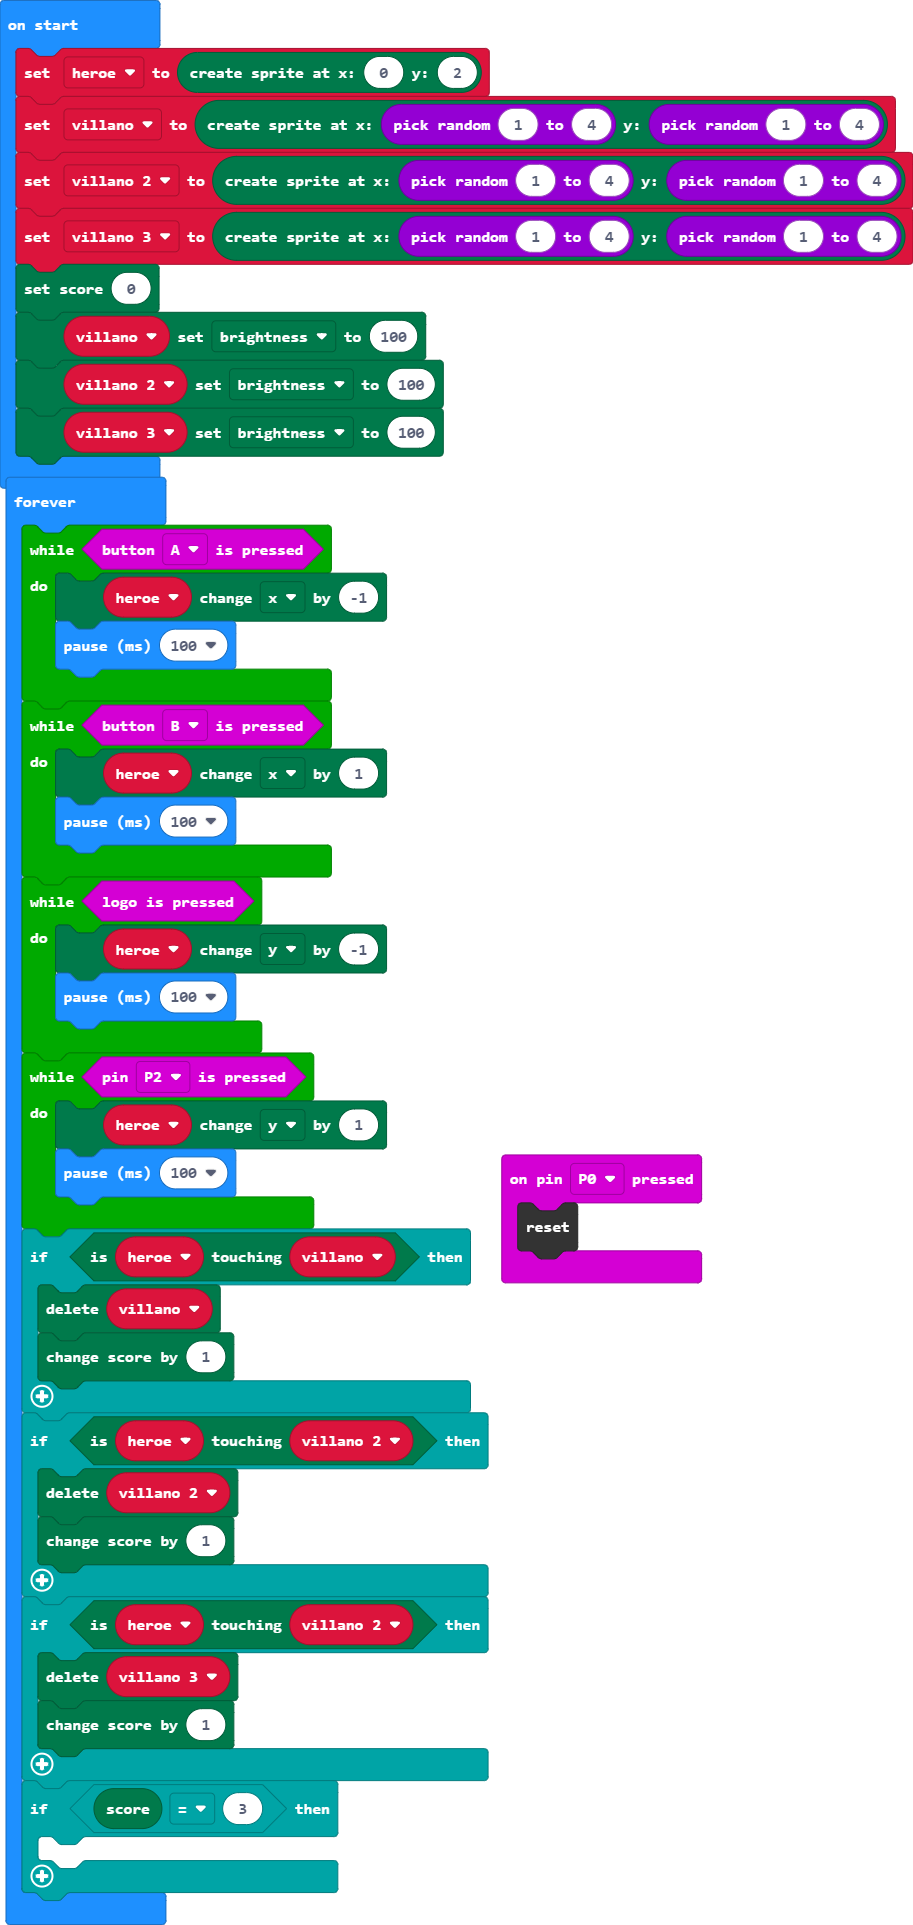
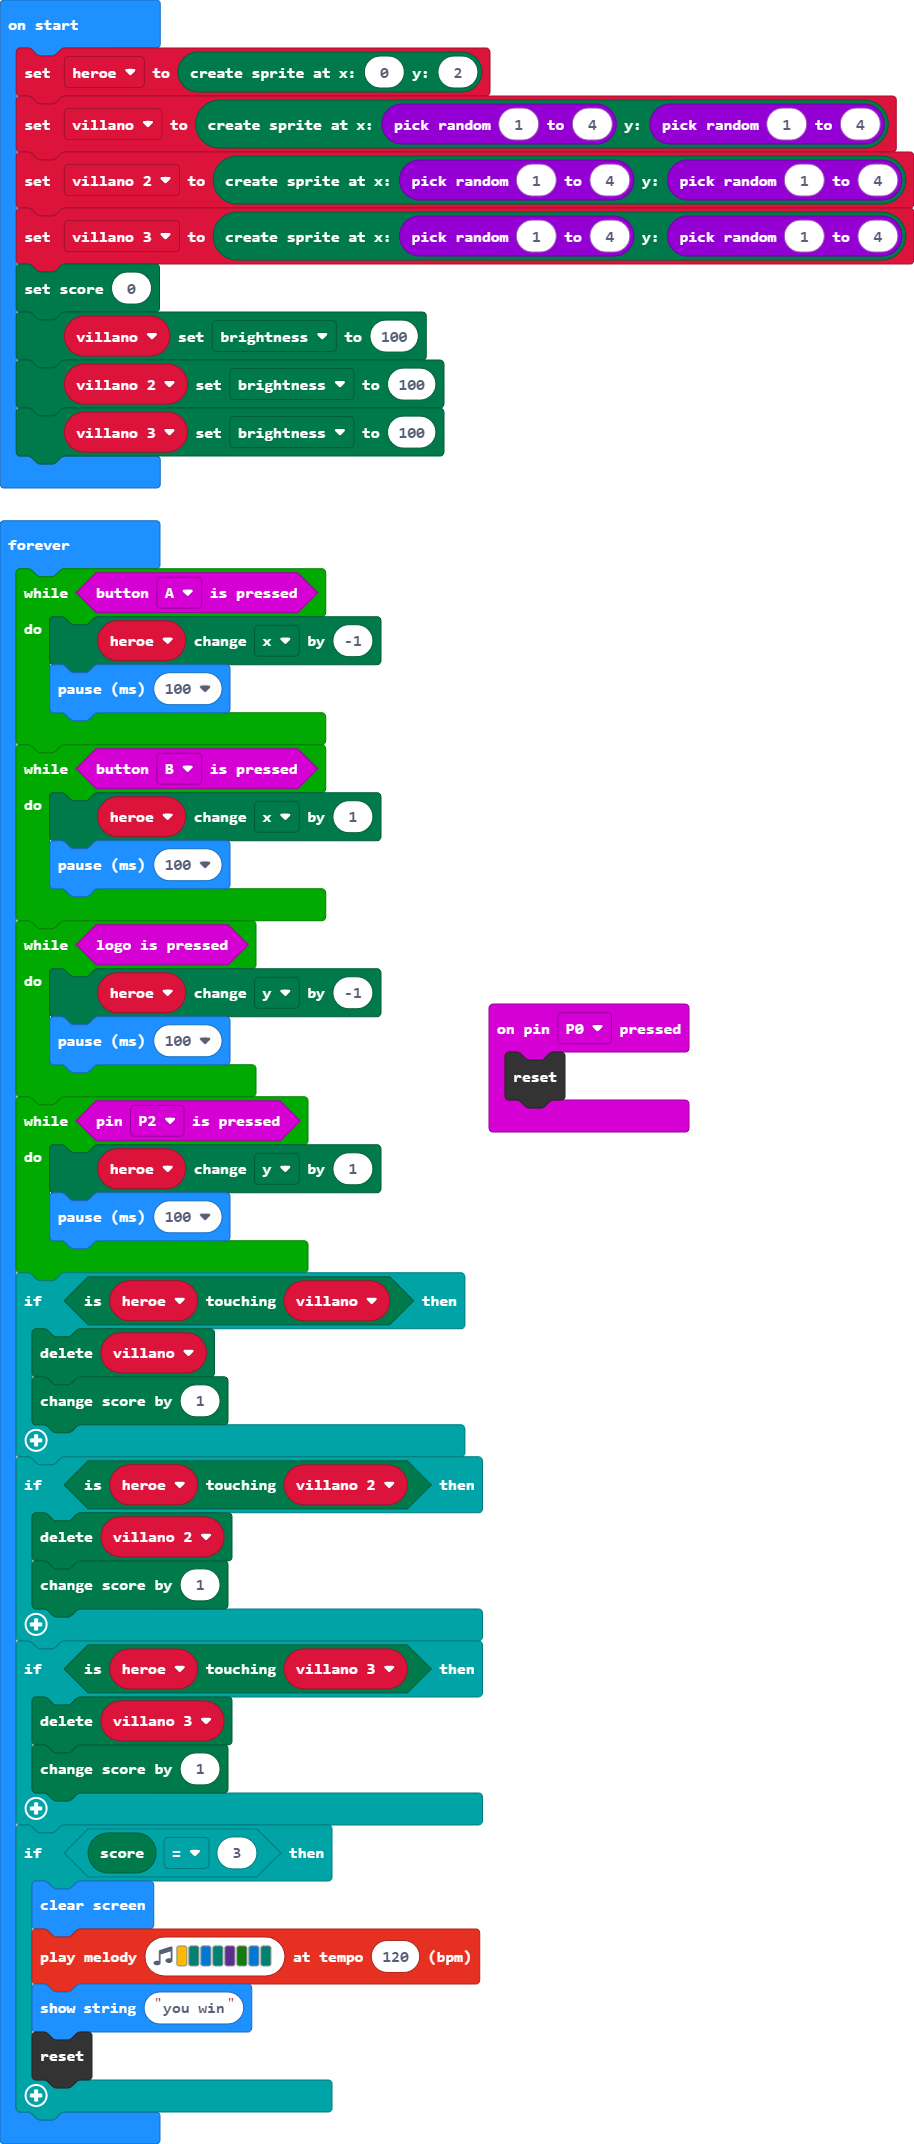
Update main.blocks, main.ts

diff --git a/main.ts b/main.ts
@@ -34,11 +34,14 @@ basic.forever(function () {
         villano_2.delete()
         game.addScore(1)
     }
-    if (heroe.isTouching(villano_2)) {
+    if (heroe.isTouching(villano_3)) {
         villano_3.delete()
         game.addScore(1)
     }
     if (game.score() == 3) {
-    	
+        basic.clearScreen()
+        music.playMelody("A F E F D G E F ", 120)
+        basic.showString("you win")
+        control.reset()
     }
 })
